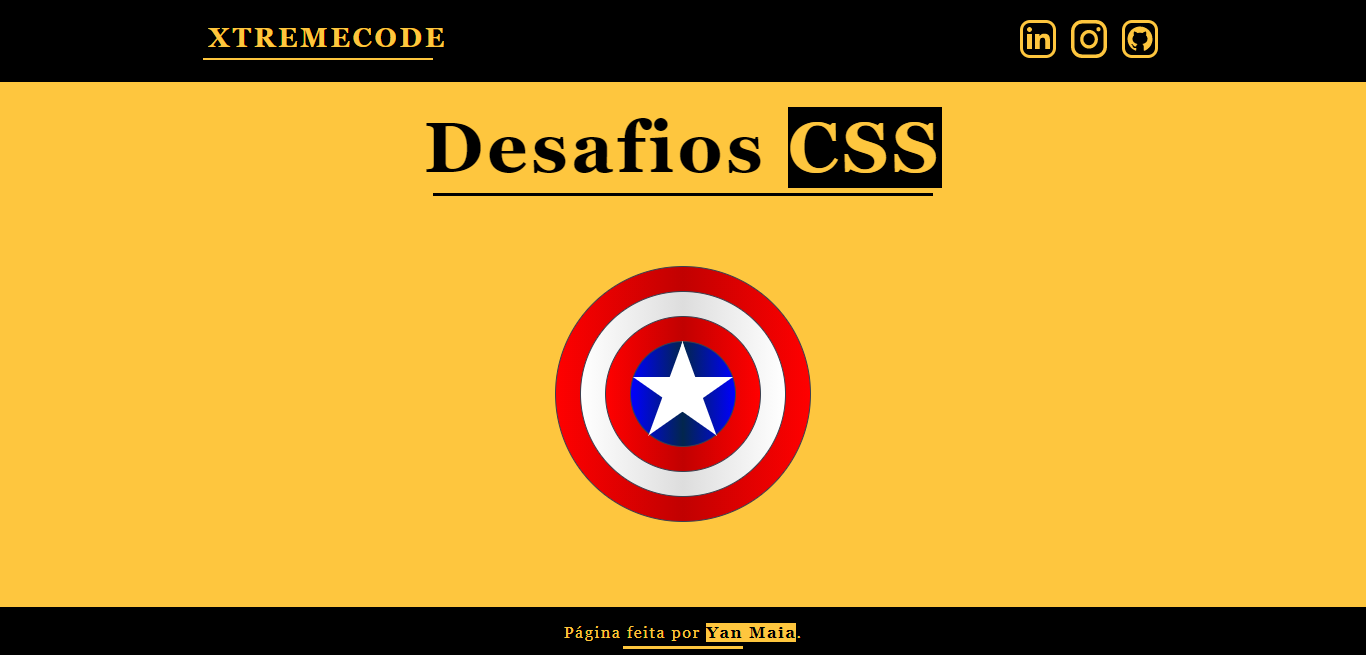
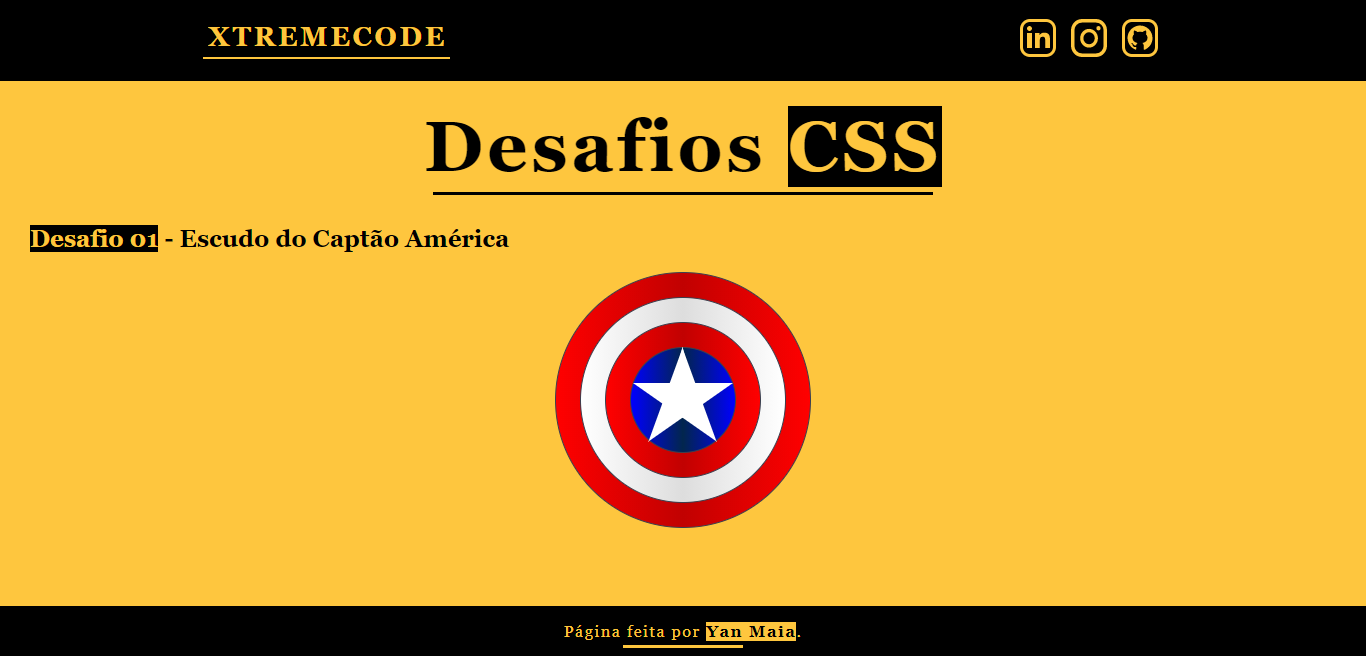
adjustments

diff --git a/html/desafios.html b/html/desafios.html
@@ -48,6 +48,7 @@
       </div>
     </main>
     <section>
+      <h2 class="titulo01"><strong>Desafio 01</strong> - Escudo do Captão América</h2>
     <div class="general-div">
       <div id="circle01" class="circle-shape">
          <div id="circle02" class="circle-shape">

diff --git a/css/desafios.css b/css/desafios.css
@@ -99,7 +99,16 @@ a {
 }
 /*Aplicação*/
 .general-div {
-  margin-top: 70px;
+  margin-top: 20px;
+}
+.titulo01 {
+  margin-top: 30px;
+  margin-left: 30px;
+}
+
+strong {
+  color: #fec63e;
+  background: #000;
 }
 .circle-shape {
   margin: auto;
